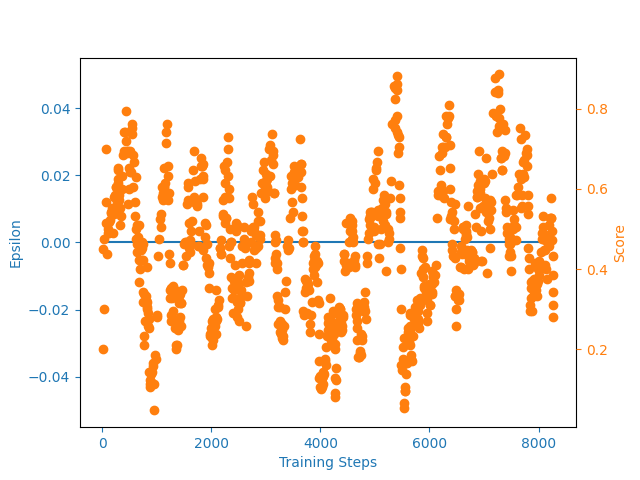
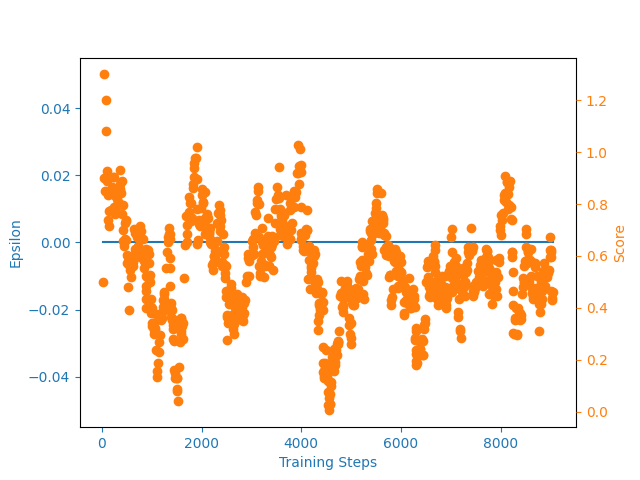
bestpasses

diff --git a/bestPass.py b/bestPass.py
@@ -53,7 +53,7 @@ if __name__ == '__main__':
     
     print(agent.q_eval.device)
 
-    scores, eps_history, steps_array, scores_perc, numbers_actions , scores_perc_raw , distances = [], [], [], [], [], [] , []
+    scores, eps_history, steps_array, scores_perc, numbers_actions , scores_perc_raw , distances , score_psnr , score_ssim =  [], [], [], [], [], [] , [] , [] , []
 
     img_list = os.listdir("testSet")
 
@@ -151,9 +151,21 @@ if __name__ == '__main__':
 
 
         env.doStepOriginal(actions_done)
-        print(losses.ssim_loss(env.final_image_RAW_batched,env.target_image_RAW_batched,1))
-        print(losses.psnr_loss(env.final_image_RAW_batched,env.target_image_RAW_batched,2.))
+
+
         final_distance_raw=env.final_distance_RAW
+
+
+        #print("ssim", -1+2*(losses.ssim_loss(env.final_image_RAW_batched,env.target_image_RAW_batched,11)))
+
+
+
+        #print("psnr ",-losses.psnr_loss(env.final_image_RAW_batched,env.target_image_RAW_batched,1))
+
+
+
+        score_psnr.append(-losses.psnr_loss(env.final_image_RAW_batched,env.target_image_RAW_batched,1))
+        score_ssim.append(-(-1+2*(losses.ssim_loss(env.final_image_RAW_batched,env.target_image_RAW_batched,11))))
 
         #print(initial_distance_raw,final_distance_raw,(1 - (final_distance_raw / initial_distance_raw)) * 100)
 
@@ -182,5 +194,7 @@ if __name__ == '__main__':
     avg_score=np.mean(scores)
     avg_percent_raw=np.mean(scores_perc_raw)
     avg_distances=np.mean(distances)
+    avg_score_psnr=np.mean(score_psnr)
+    avg_score_ssim=np.mean(score_ssim)
 
-    print('perc ',avg_percent,'scores ',avg_score,'percraws ' ,avg_percent_raw,' distances',avg_distances)
+    print('perc ',avg_percent,'scores ',avg_score,'percraws ' ,avg_percent_raw,' distances',avg_distances, ' psnr',avg_score_psnr,' ssim',avg_score_ssim)
